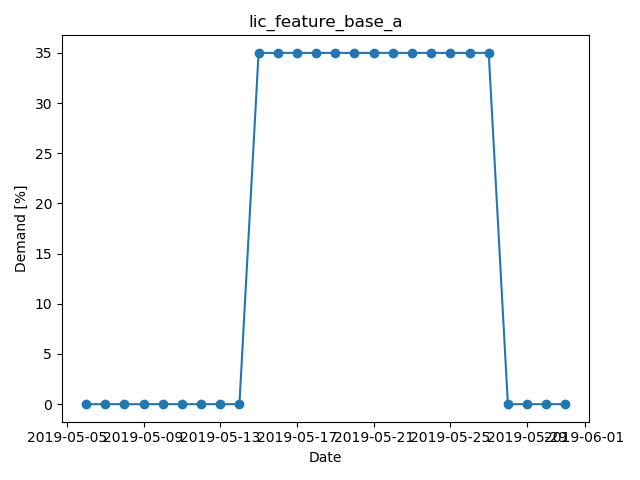
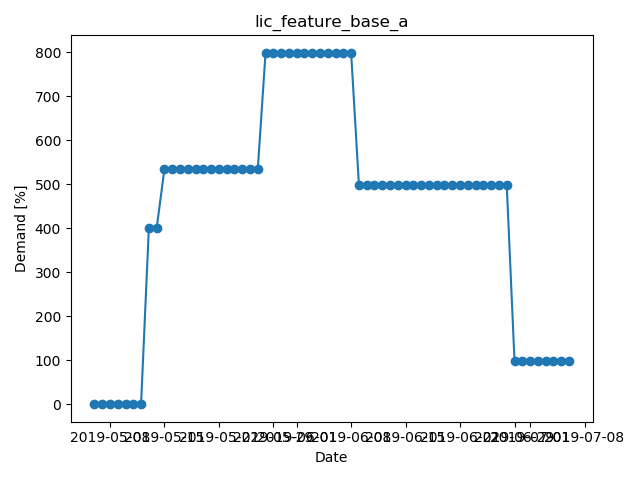
Add analysis page

diff --git a/demand_manager/templates/demand_manager/demand_analysis.html b/demand_manager/templates/demand_manager/demand_analysis.html
@@ -1,0 +1,50 @@
+{% extends "./base.html"%}
+
+{% block page_title %}Demand Manager Top{% endblock %}
+
+{% block content %}
+    <div>
+        <h1><a href="/demand_manager">Demand Manager</a></h1>
+    </div>
+
+    <div>
+        <h2>Demand Analysis</h2>
+        {% load static %}
+        <img src="{% static 'demand_manager/PNG/lic_feature_base_a.png' %}">
+
+        <!--
+        <div>
+            <table class="table table-bordered table-striped table-light">
+                <thead>
+                    <tr class="table-primary">
+                        <th>Date</th>
+                        <th>License Feature Base A</th>
+                        <th>License Feature Base B</th>
+                        <th>License Feature Base C</th>
+                        <th>License Feature Option 1</th>
+                        <th>License Feature Option 2</th>
+                        <th>License Feature Option 3</th>
+                        <th>License Feature tech 16nm</th>
+                        <th>License Feature tech 7nm</th>
+                    </tr>
+                </thead>
+                <tbody>
+                {% for index, row in df_demand_feature.iterrows %}
+                    <tr>
+                        <td>{{ index|date:"Y/m/d" }}</td>
+                        <td>{{ row.lic_feature_base_a }}</td>
+                        <td>{{ row.lic_feature_base_b }}</td>
+                        <td>{{ row.lic_feature_base_c }}</td>
+                        <td>{{ row.lic_feature_opt_1 }}</td>
+                        <td>{{ row.lic_feature_opt_2 }}</td>
+                        <td>{{ row.lic_feature_opt_3 }}</td>
+                        <td>{{ row.lic_feature_16nm }}</td>
+                        <td>{{ row.lic_feature_7nm }}</td>
+                    </tr>
+                {% endfor %}
+                </tbody>
+            </table>
+        </div>
+        -->
+    </div>
+{% endblock %}

diff --git a/demand_manager/utils/demand_summary.py b/demand_manager/utils/demand_summary.py
@@ -59,14 +59,14 @@ class DemandFeature:
             dict_data = {}
             for base_feature in self.list_base_feature:
                 if self.df_content.at[content, base_feature]:
-                    dict_data[base_feature] = np.array([frequency] * len(list_date), dtype='int8')
+                    dict_data[base_feature] = np.array([frequency] * len(list_date), dtype='int32')
                 else:
-                    dict_data[base_feature] = np.array([0] * len(list_date), dtype='int8')
+                    dict_data[base_feature] = np.array([0] * len(list_date), dtype='int32')
             for tech_feature in self.list_tech_feature:
                 if self.df_tech.at[tech_node, tech_feature]:
-                    dict_data[tech_feature] = np.array([frequency] * len(list_date), dtype='int8')
+                    dict_data[tech_feature] = np.array([frequency] * len(list_date), dtype='int32')
                 else:
-                    dict_data[tech_feature] = np.array([0] * len(list_date), dtype='int8')
+                    dict_data[tech_feature] = np.array([0] * len(list_date), dtype='int32')
             df_product = pd.DataFrame(dict_data, index=list_date)
 
             # Add DataFrame(Product) to DataFrame()
@@ -74,7 +74,7 @@ class DemandFeature:
 
     def create_demand_figure(self):
         # Setup PNG dir
-        png_dir = "./demand_manager/static/demand_manager/PNG/"
+        png_dir = "demand_manager/static/demand_manager/PNG/"
         if not os.path.isdir(png_dir):
             os.makedirs(png_dir)
         for lic_feature in self.df_demand_feature.columns:

diff --git a/demand_manager/views.py b/demand_manager/views.py
@@ -7,7 +7,7 @@ from django.utils import timezone
 
 from .models import Demand
 from .forms import LoginForm, DemandCreateForm, DemandUpdateForm
-
+from demand_manager.utils.demand_summary import DemandFeature
 
 # Create your views here.
 class DemandLoginView(LoginView):
@@ -76,3 +76,18 @@ class DemandUpdateView(LoginRequiredMixin, UpdateView):
 class DemandDeleteView(LoginRequiredMixin, DeleteView):
     model = Demand
     success_url = '/demand_manager'
+
+
+class DemandAnalysisVeiw(LoginRequiredMixin, ListView):
+    model = Demand
+    template_name = 'demand_manager/demand_analysis.html'
+
+    def get_context_data(self, **kwargs):
+        context = super().get_context_data(**kwargs)
+        # Calc Demand Feature
+        demand_feature = DemandFeature()
+        demand_feature.demand_summary()
+        df_demand_feature = demand_feature.df_demand_feature
+        context['df_demand_feature'] = df_demand_feature
+        return context
+

diff --git a/demand_manager/urls.py b/demand_manager/urls.py
@@ -19,4 +19,6 @@ urlpatterns = [
     path('<int:pk>/update/', views.DemandUpdateView.as_view(), name='update'),
     # ex: /demand_manager//2/delete
     path('<int:pk>/delete/', views.DemandDeleteView.as_view(), name='delete'),
+    # ex: /demand_manager/analysis/
+    path('analysis/', views.DemandAnalysisVeiw.as_view(), name='analysis'),
 ]
